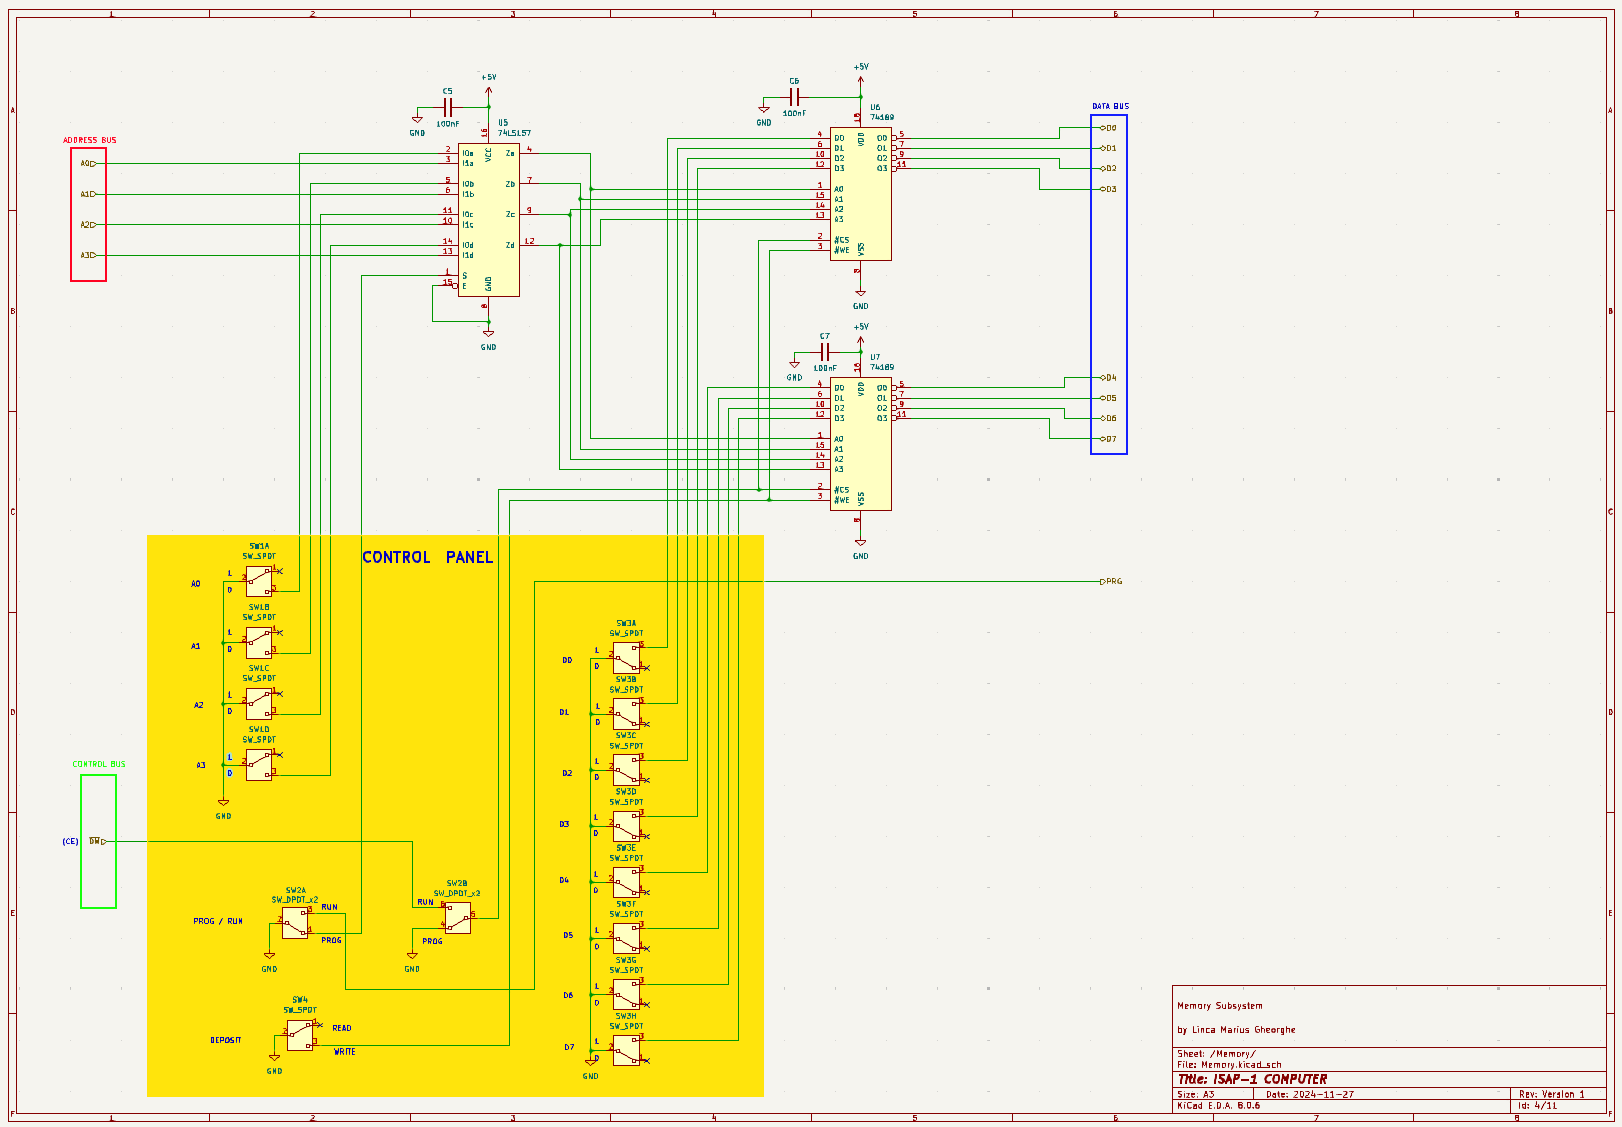
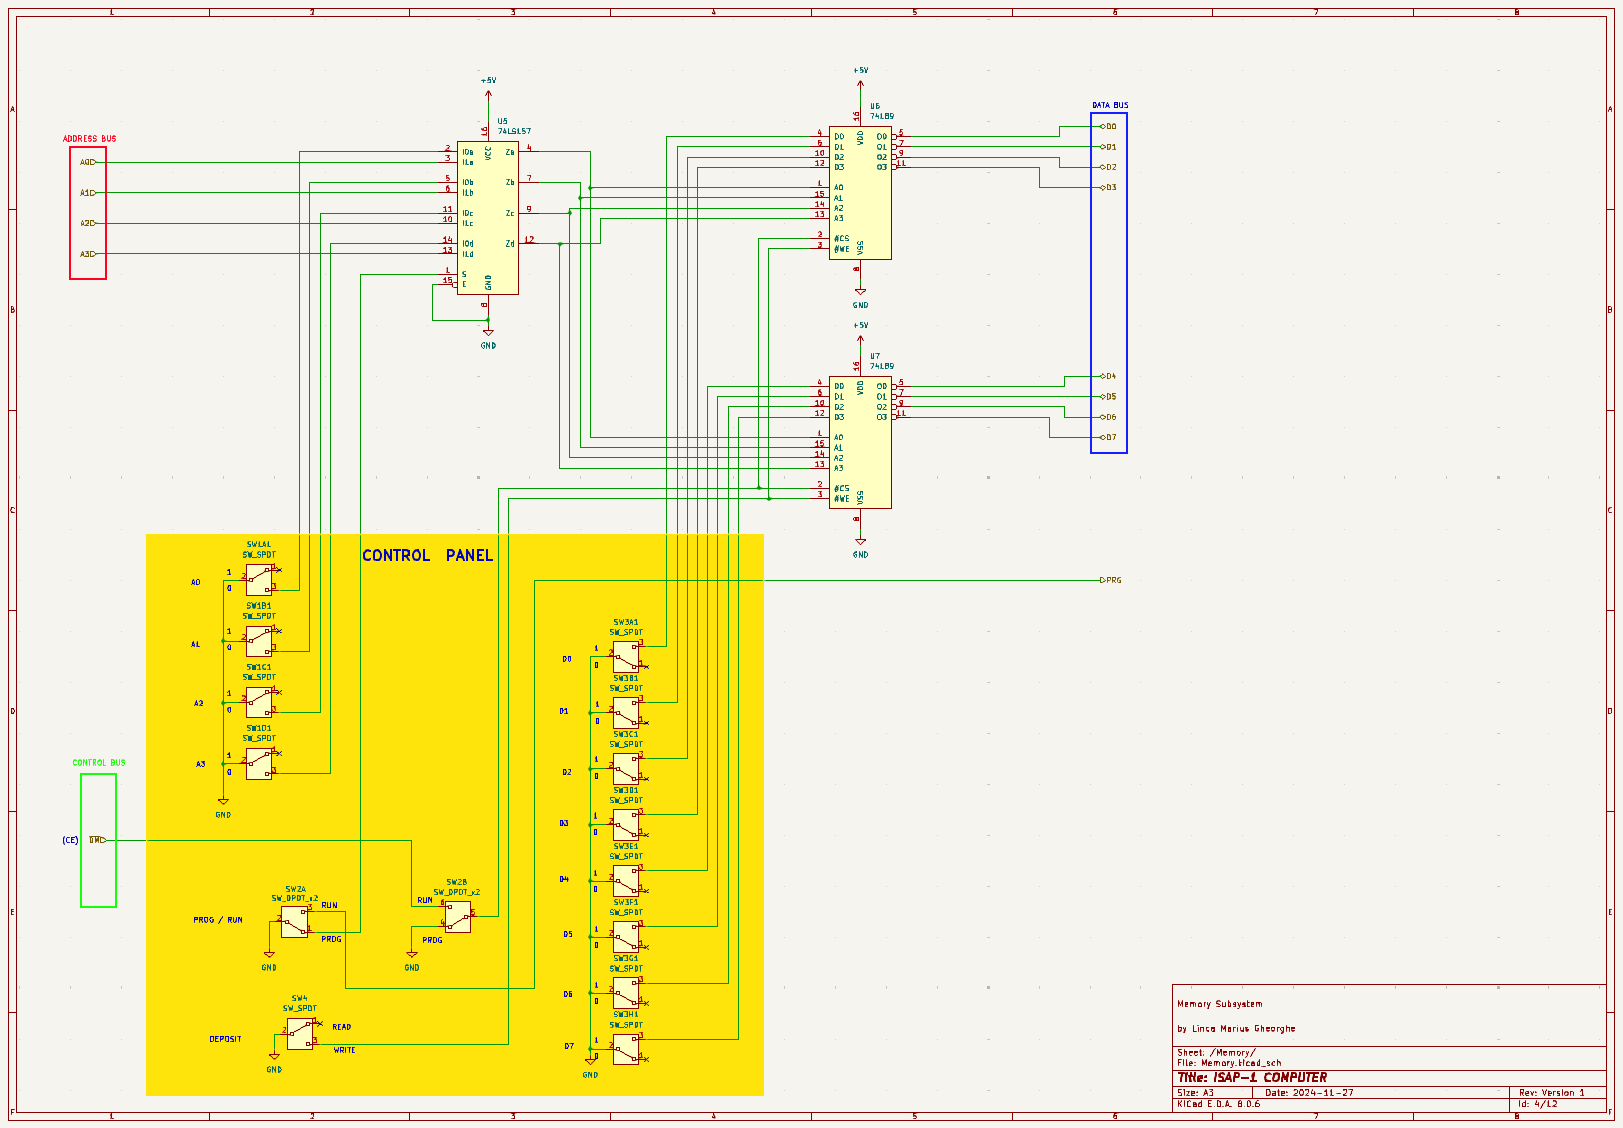
modified:   Pictures/Figure6.png modified:   README.md

diff --git a/README.md b/README.md
@@ -98,8 +98,6 @@ This is the improved schematic of the ISAP-1 computer:
 
 This control signal will activate the Digital Display module of the computer by overriding the I/O (LO) signal given by the Control Unit.
 
-I added decoupling capacitors with a value of 100nF for each integrated circuit used
-
 ### Instruction Register
 The Instruction Register is made using two integrated circuits of the 74LS173 type which is a 4-bit register.
 
